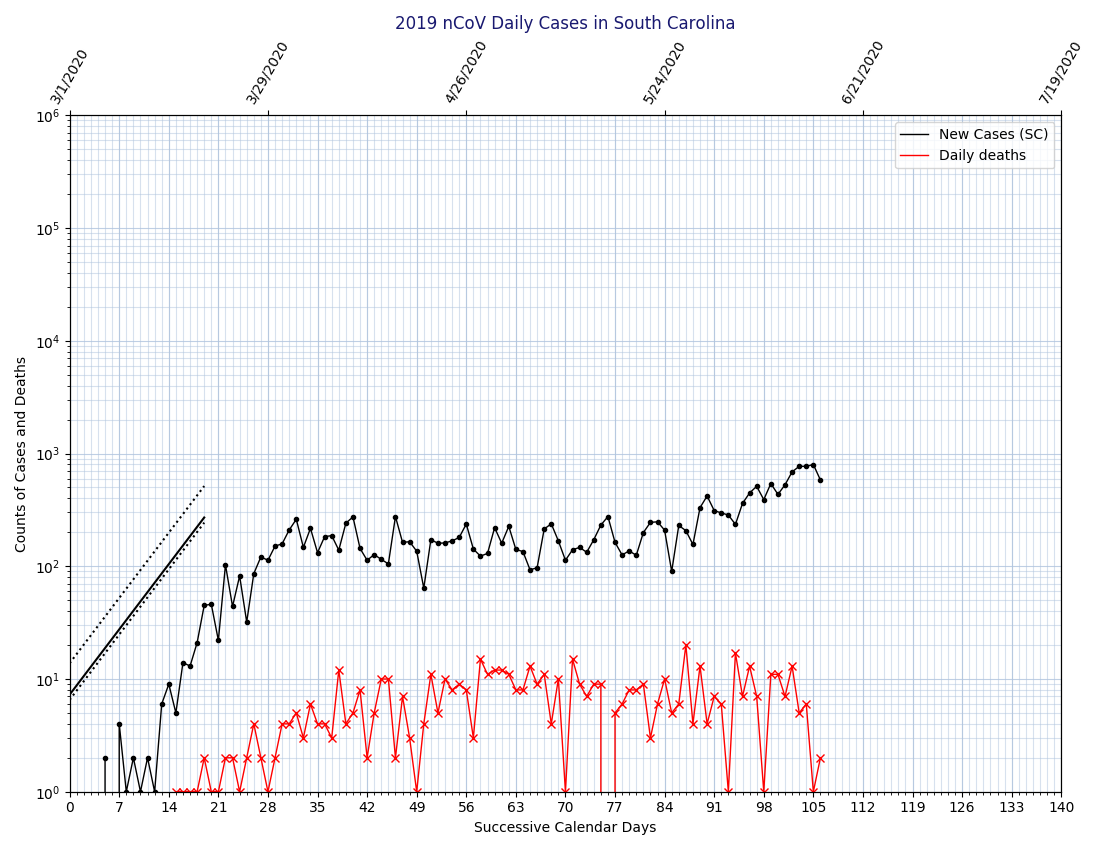
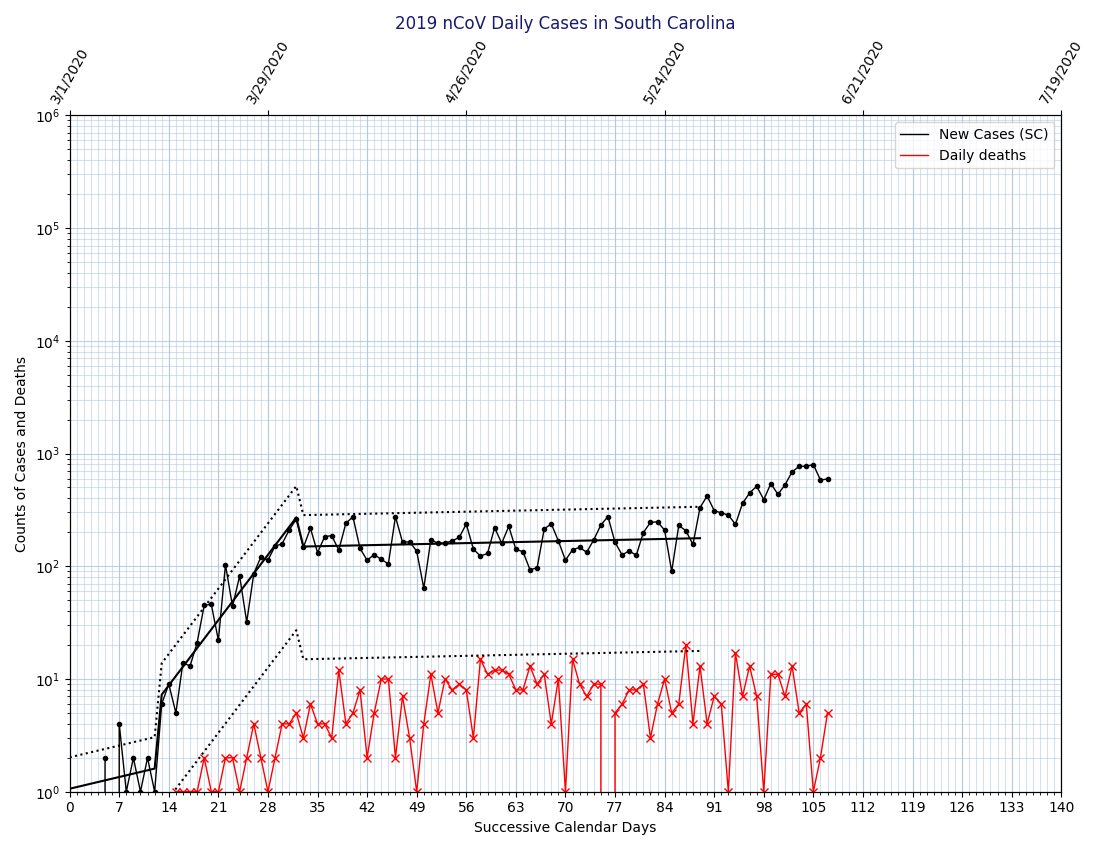
updated csv file

diff --git a/fit_curve.py b/fit_curve.py
@@ -68,8 +68,8 @@ def regression(df, date, multi_trend):
 
 		for value in range(start_day, end_day+1):
 			values.append(math.exp(m*(value-shift) + b))
-			uci.append(1.90 * math.exp(m*(value-shift) + b))
-			lci.append(0.90 * math.exp(m*(value-shift) + b))
+			uci.append(1.9 * math.exp(m*(value-shift) + b))
+			lci.append(0.1 * math.exp(m*(value-shift) + b))
 
 		values = pd.DataFrame(values, index=np.arange(start_day,(end_day+1)))
 		uci = pd.DataFrame(uci, index=np.arange(start_day,(end_day+1)))
